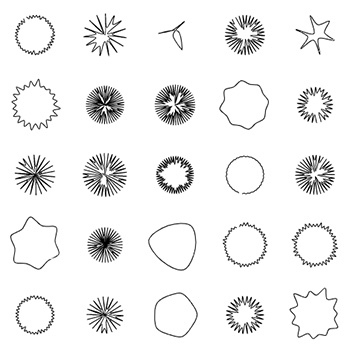
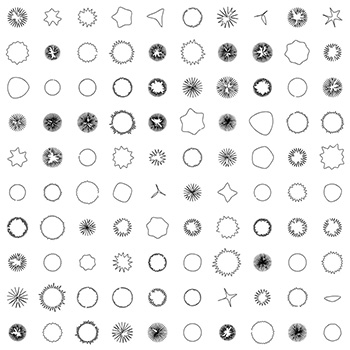
2020mutations

diff --git a/templates/project.html b/templates/project.html
@@ -164,8 +164,9 @@
                             {% for d in project.img_data %}
                                 {% set i = loop.index - 1 %}
                                 {% set x = "0" if i < 10 else "" %}
+                                {% set exten = ".gif" if d.gif is defined else ".jpg" %}
                                 {% set thumb_path = "media/projects/" ~ project.id ~ "/thumbs/"  ~ project.id ~ "-thumb" ~ x ~ i ~ ".jpg" %}
-                                {% set img_path = "media/projects/" ~ project.id ~ "/img/"  ~ project.id ~ x ~ i ~ ".jpg" %}
+                                {% set img_path = "media/projects/" ~ project.id ~ "/img/"  ~ project.id ~ x ~ i ~ exten %}
                                 {% set show = "" if i < project.img_to_show else "hidden" %}
                                 <figure class="{{ show ~ ' overburn-container' }}" itemprop="associatedMedia" itemscope
                                         itemtype="http://schema.org/ImageObject"

diff --git a/static/js/ext/2020mutations.js b/static/js/ext/2020mutations.js
@@ -20,7 +20,7 @@ document.addEventListener("DOMContentLoaded", function () {
                 0, 70, 10, 10, 0, 20,
                 false, false, true, true, false, 1);
 
-            m2 = new Mutation(dim / 2 - xShift, -yShift, dim / 2, 0,
+            m2 = new Mutation(dim / 2 - xShift, -yShift, dim / 2, 0.5,
                 1, 12, 1, 0, 10, 0, 0,
                 0, 60, 10, 10, 0, 10,
                 false, false, true, true, false, 2);

diff --git a/content/projects/2020mutations.md b/content/projects/2020mutations.md
@@ -4,6 +4,13 @@ id: 2020mutations
 date: 2020
 featured: 2
 featured_gif: true
+appendix_js:
+    - name: "lib/p5.min.js"
+    - name: "ext/2020mutations.js"    
+goto:
+    link: "http://krcadinac.com/space/neolib/"
+    label: "Side Project Example"
+    text: "Side Project Example"
 ranks:
     visual: 4
     digital: 4
@@ -35,22 +42,44 @@ presentation_title: Presentations
 presentations:
     - year: 2020
       events:
-        - name: <span class='italic-style'>Fluid Design Forum</span>, University of Montenegro Faculty of Fine Arts, Cetinje, Montenegro
-        - name: <span class='italic-style'>Artist Talk</span>, Department of Digital Art, FMK, Belgrade, Srbija
-img_to_show: 3       
+        - link: 'http://fluid-forum.me/program.pdf'
+          linked: "Fluid Design Forum" 
+          name: University of Montenegro Faculty of Fine Arts, Cetinje, Montenegro
+        - name: <span class='italic-style'>Artist Talk</span>, Department of Digital Art, Faculty of Media and Communications, Belgrade, Srbija
+img_to_show: 5       
 img_data:
-    - size: "848x1200"
-      caption: "Black marker on paper, 2002."
-    - size: "846x1200"
-      caption: "Black marker on paper, 2002."
-    - size: "849x1200"
-      caption: "Black marker on paper, 2002."
-    - size: "849x1200"
-      caption: "Black marker on paper, 2002."
-    - size: "853x1200"
-      caption: "Black marker on paper, 2002."                              
-lead: "A series of drawings I made with black marker when I was in high school. In total, there are 2102 different cartoon profiles on 18 A4 papers."
+    - size: "1528x834"
+      caption: "Example of an <a href='http://krcadinac.com/space/neolib/' target='_blank'>interactive typography side-project</a>, created via mutated glyphs. 2020."
+    - size: "1528x834"
+      caption: "Example of an <a href='http://krcadinac.com/space/neolib/' target='_blank'>interactive typography side-project</a>, created via mutated glyphs. 2020."
+    - size: "1560x855"
+      caption: "Algorithmic graphics, 2020."
+    - size: "990x520"
+      caption: "Algorithmic graphics, 2020."
+    - size: "990x990"
+      caption: "Algorithmic graphics, 2020."
+    - size: "426x614"
+      caption: "Algorithmic graphics, 2020."
+    - size: "990x990"
+      caption: "Algorithmic graphics, 2020."
+    - size: "990x990"
+      caption: "Algorithmic graphics, 2020."
+    - size: "940x470"
+      caption: "Animated mutations, 2020."
+      gif: true
+    - size: "940x470"
+      caption: "Animated mutations (a variation), 2020."
+      gif: true
+lead: "A series of procedural, generative, and animated visual experiments inspired by the shape of the SARS-CoV-2 virus. The visuals were created as supporting material for this year's workshops and <a href='/work/teaching/'>academic courses</a>, guided by the idea that the imagination should be built <em>upon</em> biological, technological and material reality, not <em>past</em> it, especially when it is invisible."
 
-It started as a non-thinking activity, something I was doing in parallel with studying geography or history, and eventually grew into a project on its own, visual exploration of different cartoon faces. The number 2102 doesn't mean anything, I just had to stop somewhere and I liked that number.
+Graphic variations are endless, yet all mutations are based on the same structural pattern, its design based on microscopic photographs of the <a href = 'https://www.nytimes.com/interactive/2020/health/coronavirus-unveiled.html' target = '_ blank'>SARS-CoV-2</a> virus. The resulting pictograms form a new language, a new system of symbols, which can be used and interpreted in various ways. One of the goals: to develop sensibility, a kind of aesthetic understanding, towards the complex biological, climatic and material systems that determine and will continue to determine the 21<sup>st</sup> century.
 
-Youth Centre Pančevo organized a small exhibition of these drawings in 2002. <mark>&#9632;</mark>
+How to use these glyphs? A concrete example is the <a href='/space/neolib' target='_blank'>interactive typographic piece</a>, which uses this system to display the letter »o« – the only visual difference between the terms »neoliberal« and »illiberal« in Serbian (»neoliberalni« vs. »neliberalni«) – as a biological cell infected with a virus. Created as part of my workshops and academic courses this year, the piece was inspired by the essay <a href='https://lareviewofbooks.org/article/neofeudalism-the-end-of-capitalism/' target='_blank'><em>Neofeudalism: The End of Capitalism?</em></a> (Jodi Dean, LARB), which we analyzed together in classes.
+ 
+ There is also a generator of new symbols, which allows you to create your own shapes modeled on a common pattern. Dragging the mouse over the image changes the parameters, and by clicking on the image you can save it as a PNG file:
+
+<div id='mutation-parent' style='padding: 0 0 25px 0'></div>
+
+The software is written in <a href='https://p5js.org/' target='_blank'> p5.js</a>, a JavaScript library for non-programmers, artists, writers and designers. The <em>2020 mutation</em> code is uploaded on my <a href='https://github.com/parthenocissus/2020mutations' target='_blank'>GitHub</a> and in my public database of <a href='https://editor.p5js.org/parthenocissus/sketches/' target ='_ blank'>p5.js sketch</a>, free and openly licensed (GNU General Public License v3.0), for anyone who would like to use it in their educational and design projects.
+
+So far, <em>2020 mutations</em> have been shown at the <em>Fluid Design Forum</em>, University of Montenegro Faculty of Fine Arts, Cetinje, and during the Artist Talk at the Department of Digital Art, Faculty of Media and Communications, Belgrade, in autumn 2020.<mark>&#9632;</mark>

diff --git a/content/_projects_s/2020mutations.md b/content/_projects_s/2020mutations.md
@@ -63,17 +63,23 @@ img_data:
     - size: "990x990"
       caption: "Algoritamska grafika, 2020."
     - size: "990x990"
-      caption: "Algoritamska grafika, 2020."                           
+      caption: "Algoritamska grafika, 2020."
+    - size: "940x470"
+      caption: "Animirane mutacije, 2020."
+      gif: true
+    - size: "940x470"
+      caption: "Animirane mutacije (varijacija), 2020."
+      gif: true
 lead: "Serija proceduralnih, generativnih, interaktivnih i animiranih vizuelnih eksperimenata inspirisanih oblikom virusa SARS-CoV-2. Vizuali su nastali kao prateći materijal za ovogodišnje radionice i <a href='/rad/edukacija/'>fakultetske predmete</a>, vođeni idejom da imaginaciju treba graditi <em>nad</em> biološkom, tehnološkom i materijalnom stvarnošću, ne <em>mimo</em> nje, naročito onda kad je nevidljiva."
 
-Grafičkih varijacija ima beskonačno, no sve mutacije zasnovane su na istom strukturnom obrascu, dizajniranom po uzoru na mikroskopske fotografije virusa <a href='https://www.nytimes.com/interactive/2020/health/coronavirus-unveiled.html' target='_blank'>SARS-CoV-2</a>. Tako nastali piktogrami formiraju novi jezik, novi sistem simbola, koji se može koristiti i tumačiti na razne načine. Jedan od ciljeva: razvijanje senzibiliteta, neke vrste estetkog razumevanja, spram složenih bioloških, klimatskih i materijalnih sistema koji određuju i tek će određivati 21. vek.
+Grafičkih varijacija ima beskonačno, no sve mutacije zasnovane su na istom strukturnom obrascu, dizajniranom po uzoru na mikroskopske fotografije virusa <a href='https://www.nytimes.com/interactive/2020/health/coronavirus-unveiled.html' target='_blank'>SARS-CoV-2</a>. Tako nastali piktogrami formiraju novi jezik, novi sistem simbola, koji se može koristiti i tumačiti na razne načine. Jedan od ciljeva: razvijanje senzibiliteta, neke vrste estetskog razumevanja, spram složenih bioloških, klimatskih i materijalnih sistema koji određuju i tek će određivati 21. vek.
 
-Šta se može napraviti na osnovu ovih glifova? Konkretan primer je <a href='/space/neolib' target='_blank'>interaktivni tipografski rad</a>, koji koristi ovaj sistem da bi prikazao slovo »o« kao jedinu vizuelnu razliku između termina »neoliberalni« i »neliberalni«. Rad sam napravio u okviru mojih ovogodišnjih radionica i akademskih kurseva. Ispirisan je esejem <a href='https://lareviewofbooks.org/article/neofeudalism-the-end-of-capitalism/' target='_blank'><em>Neofeudalizam: kraj kapitalizma?</em></a> (Jodi Dean, LARB), koji smo zajedno analizirali na časovima.
+Šta se može napraviti na osnovu ovih glifova? Konkretan primer je <a href='/space/neolib' target='_blank'>interaktivni tipografski rad</a>, koji koristi ovaj sistem da bi prikazao slovo »o« – jedinu vizuelnu razliku između termina »neoliberalni« i »neliberalni« – kao biološku ćeliju zaraženu virusom. Rad je nastao u okviru mojih ovogodišnjih radionica i akademskih kurseva. Ispirisan je esejem <a href='https://lareviewofbooks.org/article/neofeudalism-the-end-of-capitalism/' target='_blank'><em>Neofeudalizam: kraj kapitalizma?</em></a> (Jodi Dean, LARB), koji smo zajedno analizirali na časovima.
  
  Tu je i generator novih simbola, koji vam omogućuje da sami kreirate svoje oblike po uzoru na zajednički obrazac. Prevlačenjem miša preko slike menjaju se parametri, a klikom na sliku možete je sačuvati kao PNG fajl:
  
 <div id='mutation-parent' style='padding: 0 0 25px 0'></div>
 
-Softver je napisan pomoću <a href='https://p5js.org/' target='_blank'>p5.js</a>, JavaScript biblioteke namenjene početnicima, neprogramerima, umetnicima, piscima i dizajnerima. Kôd <em>2020 mutacija</em> objavio sam na svom <a href='https://github.com/parthenocissus/2020mutations' target='_blank'>GitHubu</a> i u svojoj javnoj bazi <a href='https://editor.p5js.org/parthenocissus/sketches/' target='_blanl'>p5.js skica</a>, besplatno i otvoreno licencirano (GNU General Public License v3.0), za sve koji bi želeli da ga koriste u svojim edukativnim, dizajnerskim, umetničkim i drugim praksama.
+Softver je napisan pomoću <a href='https://p5js.org/' target='_blank'>p5.js</a>, JavaScript biblioteke namenjene početnicima, neprogramerima, umetnicima, piscima i dizajnerima. Kôd <em>2020 mutacija</em> objavio sam na svom <a href='https://github.com/parthenocissus/2020mutations' target='_blank'>GitHubu</a> i u svojoj javnoj bazi <a href='https://editor.p5js.org/parthenocissus/sketches/' target='_blank'>p5.js skica</a>, besplatno i otvoreno licencirano (GNU General Public License v3.0), za sve koji bi želeli da ga koriste u svojim edukativnim, dizajnerskim, umetničkim i drugim praksama.
 
 <em>2020 mutacije</em> dosad su prikazane na <em>Fluid Design Forumu</em> Fakulteta likovnih umjetnosti na Cetinju i u okviru autorskog predavanja na Departmanu za digitalne umetnosti Fakulteta za medije i komunikacije u Beogradu, u jesen 2020.<mark>&#9632;</mark>
